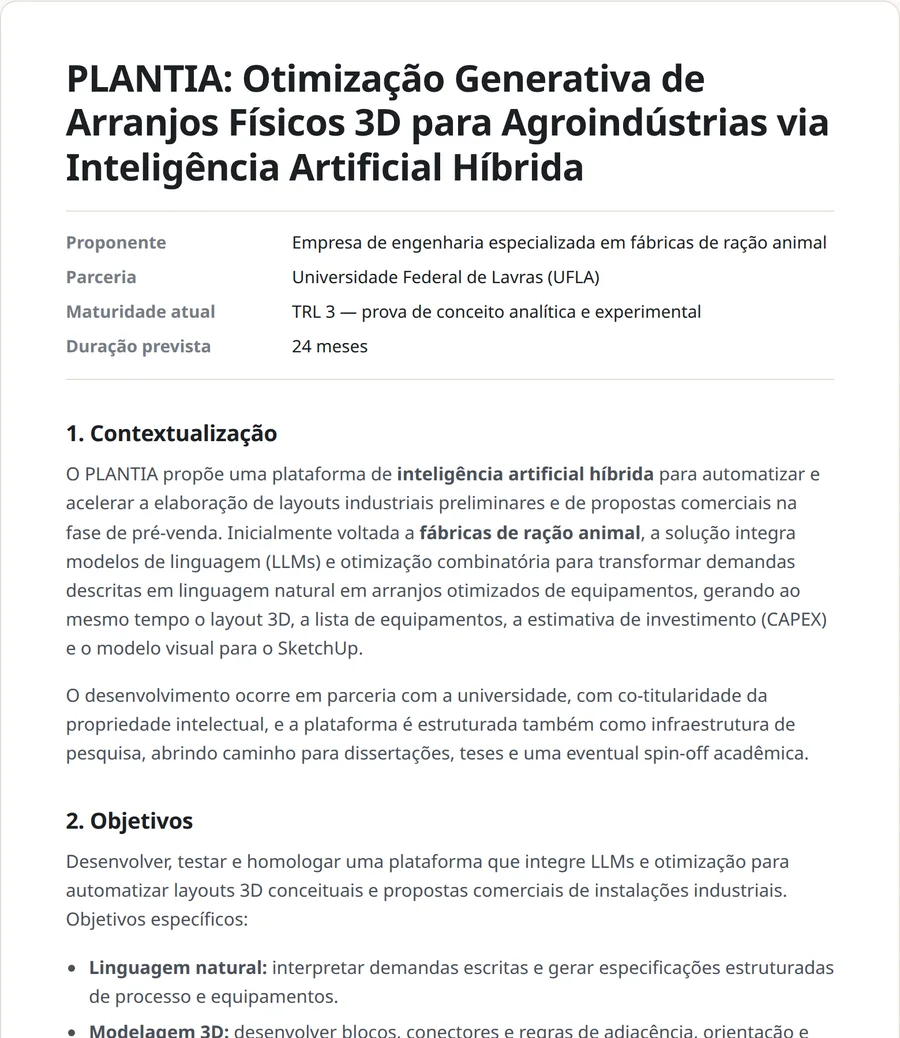
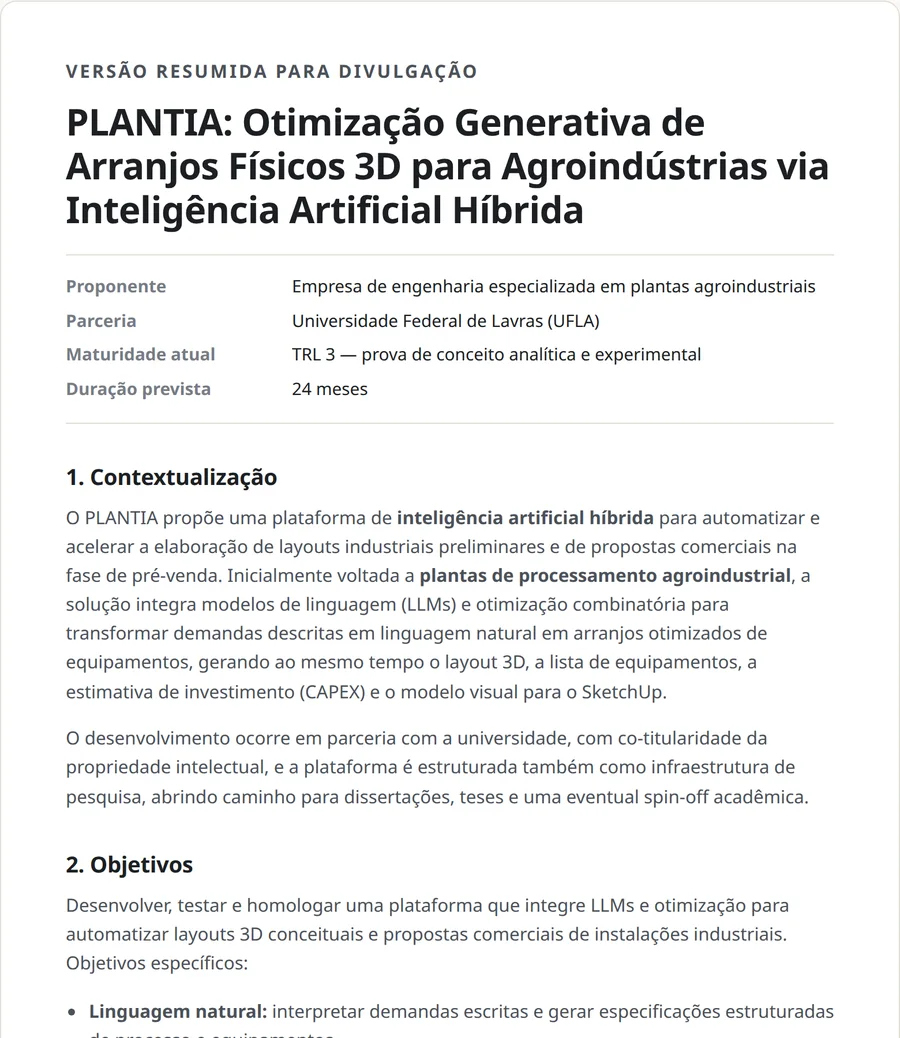
Exemplo de entrega como versão resumida e PLANTIA sem citar ração
- Deixa explícito em todos os pontos que o documento do PLANTIA é uma
  versão resumida (faixa da página inicial, links, título e topo do
  documento).
- Troca "fábricas de ração" por "plantas agroindustriais" no caso do
  portfólio e no documento, mantendo o sentido; miniatura refeita.

Changed region(s): [[0.0622, 0.0617, 0.9333, 1.0]]

diff --git a/exemplo-edital.html b/exemplo-edital.html
@@ -3,7 +3,7 @@
 <head>
 <meta charset="utf-8">
 <meta name="viewport" content="width=device-width, initial-scale=1">
-<title>Exemplo de documento técnico para edital — Raphael de Bettio</title>
+<title>Exemplo de documento técnico para edital (versão resumida) — Raphael de Bettio</title>
 <meta name="description" content="Versão resumida de uma proposta real de P&D para edital de fomento, elaborada a partir de uma prova de conceito.">
 <meta property="og:title" content="Exemplo de documento técnico para edital — Raphael de Bettio">
 <meta property="og:description" content="Sua ideia funcionando em semanas, para validar, testar ou captar recursos.">
@@ -52,15 +52,16 @@
       <div class="doc-actions"><a class="btn btn-ghost btn-sm" href="portfolio.html#plantia">← Voltar para o portfólio</a><button class="btn btn-wa btn-sm" type="button" onclick="window.print()">Salvar em PDF</button></div>
     </div>
     <article class="doc">
+<p class="eyebrow">Versão resumida para divulgação</p>
 <h1>PLANTIA: Otimização Generativa de Arranjos Físicos 3D para Agroindústrias via Inteligência Artificial Híbrida</h1>
 <dl class="meta">
-<dt>Proponente</dt><dd>Empresa de engenharia especializada em fábricas de ração animal</dd>
+<dt>Proponente</dt><dd>Empresa de engenharia especializada em plantas agroindustriais</dd>
 <dt>Parceria</dt><dd>Universidade Federal de Lavras (UFLA)</dd>
 <dt>Maturidade atual</dt><dd>TRL 3 — prova de conceito analítica e experimental</dd>
 <dt>Duração prevista</dt><dd>24 meses</dd>
 </dl>
 <h2>1. Contextualização</h2>
-<p>O PLANTIA propõe uma plataforma de <strong>inteligência artificial híbrida</strong> para automatizar e acelerar a elaboração de layouts industriais preliminares e de propostas comerciais na fase de pré-venda. Inicialmente voltada a <strong>fábricas de ração animal</strong>, a solução integra modelos de linguagem (LLMs) e otimização combinatória para transformar demandas descritas em linguagem natural em arranjos otimizados de equipamentos, gerando ao mesmo tempo o layout 3D, a lista de equipamentos, a estimativa de investimento (CAPEX) e o modelo visual para o SketchUp.</p>
+<p>O PLANTIA propõe uma plataforma de <strong>inteligência artificial híbrida</strong> para automatizar e acelerar a elaboração de layouts industriais preliminares e de propostas comerciais na fase de pré-venda. Inicialmente voltada a <strong>plantas de processamento agroindustrial</strong>, a solução integra modelos de linguagem (LLMs) e otimização combinatória para transformar demandas descritas em linguagem natural em arranjos otimizados de equipamentos, gerando ao mesmo tempo o layout 3D, a lista de equipamentos, a estimativa de investimento (CAPEX) e o modelo visual para o SketchUp.</p>
 <p>O desenvolvimento ocorre em parceria com a universidade, com co-titularidade da propriedade intelectual, e a plataforma é estruturada também como infraestrutura de pesquisa, abrindo caminho para dissertações, teses e uma eventual spin-off acadêmica.</p>
 <h2>2. Objetivos</h2>
 <p>Desenvolver, testar e homologar uma plataforma que integre LLMs e otimização para automatizar layouts 3D conceituais e propostas comerciais de instalações industriais. Objetivos específicos:</p>
@@ -73,7 +74,7 @@
 <li><strong>Humano no controle:</strong> permitir ajustes, escolha entre alternativas e retorno a estados anteriores do projeto.</li>
 </ul>
 <h2>3. Relevância e aderência ao edital</h2>
-<p>O projeto ataca um gargalo da elaboração de propostas e orçamentos para fábricas de ração, hoje manual, lento e sujeito a retrabalho, reduzindo tempo e esforço na pré-venda e contribuindo para a eficiência da cadeia do agronegócio. A arquitetura modular permite aplicação futura em outros setores industriais.</p>
+<p>O projeto ataca um gargalo da elaboração de propostas e orçamentos para plantas agroindustriais, hoje manual, lento e sujeito a retrabalho, reduzindo tempo e esforço na pré-venda e contribuindo para a eficiência da cadeia do agronegócio. A arquitetura modular permite aplicação futura em outros setores industriais.</p>
 <p>A arquitetura de IA híbrida — um módulo semântico baseado em LLMs e um módulo de decisão por otimização combinatória — está alinhada à definição de inteligência artificial do Plano Brasileiro de Inteligência Artificial (PBIA) e ao seu eixo de IA para inovação empresarial, além de contribuir para reduzir a dependência de ferramentas estrangeiras de CAD e simulação, de licenças caras e pouco voltadas à produção de orçamentos.</p>
 <h2>4. Metodologia</h2>
 <p>O desenvolvimento segue um ciclo em espiral. Um <strong>LLM local</strong> interpreta a descrição do processo e a converte numa especificação estruturada em JSON, sem executar cálculos físicos. A especificação alimenta um <strong>modelo tridimensional discreto</strong> do galpão, em que equipamentos são blocos com dimensões, posições e conectores, sujeitos a regras de compatibilidade e fluxo. Um <strong>solver de otimização</strong> define o arranjo respeitando espaço, não sobreposição, limites do galpão e conectividade, buscando minimizar área ocupada e interconexões. O layout é convertido automaticamente em <strong>scripts Ruby para o SketchUp</strong>, e modelos paramétricos estimam o CAPEX de fabricação e montagem. Todo o processo é coordenado por uma interface em que o engenheiro combina comandos em linguagem natural com controles gráficos, com histórico de decisões que permite revisar e experimentar sem perder configurações anteriores.</p>

diff --git a/en/exemplo-edital.html b/en/exemplo-edital.html
@@ -3,7 +3,7 @@
 <head>
 <meta charset="utf-8">
 <meta name="viewport" content="width=device-width, initial-scale=1">
-<title>Example funding document — Raphael de Bettio</title>
+<title>Example funding document (condensed version) — Raphael de Bettio</title>
 <meta name="description" content="Condensed version of a real R&D proposal for a funding call, built on a proof of concept.">
 <meta property="og:title" content="Example funding document — Raphael de Bettio">
 <meta property="og:description" content="Your idea working in weeks — to validate, test or raise funding.">
@@ -52,15 +52,16 @@
       <div class="doc-actions"><a class="btn btn-ghost btn-sm" href="portfolio.html#plantia">← Back to the portfolio</a><button class="btn btn-wa btn-sm" type="button" onclick="window.print()">Save as PDF</button></div>
     </div>
     <article class="doc">
+<p class="eyebrow">Condensed version for publication</p>
 <h1>PLANTIA: Generative Optimization of 3D Physical Layouts for Agribusiness via Hybrid Artificial Intelligence</h1>
 <dl class="meta">
-<dt>Applicant</dt><dd>Engineering company specialized in animal-feed factories</dd>
+<dt>Applicant</dt><dd>Engineering company specialized in agro-industrial plants</dd>
 <dt>Partner</dt><dd>Federal University of Lavras (UFLA)</dd>
 <dt>Current maturity</dt><dd>TRL 3 — analytical and experimental proof of concept</dd>
 <dt>Planned duration</dt><dd>24 months</dd>
 </dl>
 <h2>1. Context</h2>
-<p>PLANTIA proposes a <strong>hybrid artificial intelligence</strong> platform to automate and speed up preliminary industrial layouts and sales proposals in the pre-sales phase. Initially aimed at <strong>animal-feed factories</strong>, it combines large language models (LLMs) and combinatorial optimization to turn demands written in natural language into optimized equipment arrangements, producing at once the 3D layout, the equipment list, the investment estimate (CAPEX) and the visual model for SketchUp.</p>
+<p>PLANTIA proposes a <strong>hybrid artificial intelligence</strong> platform to automate and speed up preliminary industrial layouts and sales proposals in the pre-sales phase. Initially aimed at <strong>agro-industrial processing plants</strong>, it combines large language models (LLMs) and combinatorial optimization to turn demands written in natural language into optimized equipment arrangements, producing at once the 3D layout, the equipment list, the investment estimate (CAPEX) and the visual model for SketchUp.</p>
 <p>Development takes place in partnership with the university, with shared intellectual property, and the platform is also structured as research infrastructure, opening the way to theses and a possible academic spin-off.</p>
 <h2>2. Objectives</h2>
 <p>To develop, test and certify a platform that integrates LLMs and optimization to automate conceptual 3D layouts and sales proposals for industrial plants. Specific objectives:</p>
@@ -73,7 +74,7 @@
 <li><strong>Human in control:</strong> allow adjustments, choosing between alternatives and returning to previous project states.</li>
 </ul>
 <h2>3. Relevance and fit with the call</h2>
-<p>The project tackles a bottleneck in preparing proposals and budgets for feed factories — today manual, slow and prone to rework — cutting pre-sales time and effort and improving efficiency in the agribusiness chain. Its modular architecture allows future use in other industrial sectors.</p>
+<p>The project tackles a bottleneck in preparing proposals and budgets for agro-industrial plants — today manual, slow and prone to rework — cutting pre-sales time and effort and improving efficiency in the agribusiness chain. Its modular architecture allows future use in other industrial sectors.</p>
 <p>The hybrid AI architecture — a semantic module based on LLMs and a decision module based on combinatorial optimization — matches the definition of AI in the Brazilian Artificial Intelligence Plan (PBIA) and its pillar on AI for business innovation, while reducing dependence on foreign CAD and simulation tools with costly licenses and little focus on budgeting.</p>
 <h2>4. Methodology</h2>
 <p>Development follows a spiral cycle. A <strong>local LLM</strong> interprets the process description and turns it into a structured JSON specification, without doing physical calculations. The specification feeds a <strong>discrete three-dimensional model</strong> of the building, in which machines are blocks with dimensions, positions and connectors, subject to compatibility and flow rules. An <strong>optimization solver</strong> defines the arrangement respecting space, non-overlap, building limits and connectivity, while minimizing occupied area and interconnections. The layout is automatically converted into <strong>Ruby scripts for SketchUp</strong>, and parametric models estimate manufacturing and assembly CAPEX. The whole process is coordinated by an interface where the engineer combines natural-language commands with graphical controls, with a decision history that allows reviewing and experimenting without losing earlier configurations.</p>

diff --git a/portfolio.html b/portfolio.html
@@ -53,7 +53,7 @@
     <div class="eyebrow">Portfólio</div>
     <h1>Sistemas que já projetei e construí</h1>
     <p class="lead">Os sistemas a seguir foram desenvolvidos no âmbito da universidade: projetos institucionais em parceria com empresas privadas e órgãos públicos, e provas de conceito e protótipos criados para apoiar projetos de pesquisa, extensão e ensino. Como muitos deles não têm acesso público, mostro aqui como funcionam — com telas ou ilustrações e o diagrama de cada um.</p>
-    <p class="note" style="margin-top:14px"><a href="exemplo-edital.html">Veja também um exemplo de entrega: o documento técnico para edital feito a partir da POC do PLANTIA →</a></p>
+    <p class="note" style="margin-top:14px"><a href="exemplo-edital.html">Veja também um exemplo de entrega: a versão resumida do documento técnico para edital feito a partir da POC do PLANTIA →</a></p>
   </div>
 </section>
 
@@ -63,7 +63,7 @@
       <a class="card" href="#plantia">
         <span class="num">01</span>
         <h3>PLANTIA</h3>
-        <p>Do pedido em texto ao layout 3D de uma fábrica de ração, pronto para o SketchUp, com inteligência artificial.</p>
+        <p>Do pedido em texto ao layout 3D de uma planta agroindustrial, pronto para o SketchUp, com inteligência artificial.</p>
         <span class="go">Ver o caso →</span>
       </a>
       <a class="card" href="#cognifox">
@@ -119,13 +119,13 @@
       <div>
         <div class="eyebrow">PLANTIA · Prova de conceito</div>
         <h2>Otimização Generativa de Arranjos Físicos 3D para Agroindústrias via Inteligência Artificial Híbrida</h2>
-        <p>Prova de conceito para quem projeta fábricas de ração. Hoje, montar o layout preliminar de uma proposta comercial é trabalho manual, lento e cheio de retrabalho. Aqui, o cliente descreve a demanda em texto — por exemplo, “preciso processar 250 kg de farinha por hora” —, a inteligência artificial transforma o pedido numa especificação, o sistema calcula quantos equipamentos são necessários e encontra sozinho uma posição para cada um, já conectados entre si, gerando o modelo pronto para o SketchUp. A POC mostrou que o mecanismo funciona de ponta a ponta e virou a base técnica de uma proposta de pesquisa e desenvolvimento em parceria com a UFLA. Concebi e desenvolvi a prova de conceito, chamada Pré-SketchUp.</p>
+        <p>Prova de conceito para quem projeta plantas industriais do agronegócio. Hoje, montar o layout preliminar de uma proposta comercial é trabalho manual, lento e cheio de retrabalho. Aqui, o cliente descreve a demanda em texto — por exemplo, “preciso processar 250 kg de farinha por hora” —, a inteligência artificial transforma o pedido numa especificação, o sistema calcula quantos equipamentos são necessários e encontra sozinho uma posição para cada um, já conectados entre si, gerando o modelo pronto para o SketchUp. A POC mostrou que o mecanismo funciona de ponta a ponta e virou a base técnica de uma proposta de pesquisa e desenvolvimento em parceria com a UFLA. Concebi e desenvolvi a prova de conceito, chamada Pré-SketchUp.</p>
         <div class="tags"><span>Prova de conceito</span><span>Agroindústria</span><span>Inteligência artificial</span><span>Otimização</span><span>Modelagem 3D</span><span>SketchUp</span></div>
-        <p class="startup-line"><strong>Para a sua startup:</strong> mostra o caminho completo que uma startup percorre: da ideia a uma prova de conceito funcionando e, dela, a um documento técnico pronto para buscar financiamento.<br><a href="exemplo-edital.html">Veja o exemplo de documento para edital →</a></p>
+        <p class="startup-line"><strong>Para a sua startup:</strong> mostra o caminho completo que uma startup percorre: da ideia a uma prova de conceito funcionando e, dela, a um documento técnico pronto para buscar financiamento.<br><a href="exemplo-edital.html">Veja a versão resumida do documento para edital →</a></p>
       </div>
       <div class="case-usage">
         <h4>Situação</h4>
-        <ul><li><strong>Prova de conceito concluída</strong><span>Mecanismo validado de ponta a ponta, em cenários variados</span></li><li><strong>Próxima etapa</strong><span>Projeto de P&D estruturado em parceria com a UFLA, com roteiro para chegar a produto e pronto para editais de fomento</span></li><li><strong>Domínio</strong><span>Fábricas de ração animal</span></li></ul>
+        <ul><li><strong>Prova de conceito concluída</strong><span>Mecanismo validado de ponta a ponta, em cenários variados</span></li><li><strong>Próxima etapa</strong><span>Projeto de P&D estruturado em parceria com a UFLA, com roteiro para chegar a produto e pronto para editais de fomento</span></li><li><strong>Domínio</strong><span>Plantas de processamento agroindustrial</span></li></ul>
       </div>
     </div>
     <div class="case-body">

diff --git a/en/portfolio.html b/en/portfolio.html
@@ -53,7 +53,7 @@
     <div class="eyebrow">Portfolio</div>
     <h1>Systems I have designed and built</h1>
     <p class="lead">The systems below were developed within the university: institutional projects in partnership with private companies and government agencies, and proofs of concept and prototypes built to support research, outreach and teaching projects. Since many of them have no public access, here I show how they work — with screens or illustrations and a diagram of each one.</p>
-    <p class="note" style="margin-top:14px"><a href="exemplo-edital.html">See also a deliverable example: the technical funding document built from the PLANTIA POC →</a></p>
+    <p class="note" style="margin-top:14px"><a href="exemplo-edital.html">See also a deliverable example: a condensed version of the technical funding document built from the PLANTIA POC →</a></p>
   </div>
 </section>
 
@@ -63,7 +63,7 @@
       <a class="card" href="#plantia">
         <span class="num">01</span>
         <h3>PLANTIA</h3>
-        <p>From a plain-text request to the 3D layout of an animal-feed factory, ready for SketchUp, with artificial intelligence.</p>
+        <p>From a plain-text request to the 3D layout of an agro-industrial plant, ready for SketchUp, with artificial intelligence.</p>
         <span class="go">See the case →</span>
       </a>
       <a class="card" href="#cognifox">
@@ -119,13 +119,13 @@
       <div>
         <div class="eyebrow">PLANTIA · Proof of concept</div>
         <h2>Generative Optimization of 3D Physical Layouts for Agribusiness via Hybrid Artificial Intelligence</h2>
-        <p>A proof of concept for companies that design animal-feed factories. Today, putting together the preliminary layout for a sales proposal is manual, slow work full of rework. Here, the client describes the demand in plain text — for example, “I need to process 250 kg of flour per hour” —, artificial intelligence turns the request into a specification, the system works out how many machines are needed and finds a position for each one on its own, already connected to each other, producing a model ready for SketchUp. The POC showed the mechanism works end to end and became the technical basis of an R&D proposal in partnership with UFLA. I conceived and developed the proof of concept, called Pre-SketchUp.</p>
+        <p>A proof of concept for companies that design agribusiness processing plants. Today, putting together the preliminary layout for a sales proposal is manual, slow work full of rework. Here, the client describes the demand in plain text — for example, “I need to process 250 kg of flour per hour” —, artificial intelligence turns the request into a specification, the system works out how many machines are needed and finds a position for each one on its own, already connected to each other, producing a model ready for SketchUp. The POC showed the mechanism works end to end and became the technical basis of an R&D proposal in partnership with UFLA. I conceived and developed the proof of concept, called Pre-SketchUp.</p>
         <div class="tags"><span>Proof of concept</span><span>Agribusiness</span><span>Artificial intelligence</span><span>Optimization</span><span>3D modeling</span><span>SketchUp</span></div>
-        <p class="startup-line"><strong>For your startup:</strong> shows the full path a startup goes through: from an idea to a working proof of concept and, from there, to a technical document ready to seek funding.<br><a href="exemplo-edital.html">See the example funding document →</a></p>
+        <p class="startup-line"><strong>For your startup:</strong> shows the full path a startup goes through: from an idea to a working proof of concept and, from there, to a technical document ready to seek funding.<br><a href="exemplo-edital.html">See the condensed version of the funding document →</a></p>
       </div>
       <div class="case-usage">
         <h4>Status</h4>
-        <ul><li><strong>Proof of concept completed</strong><span>Mechanism validated end to end, in varied scenarios</span></li><li><strong>Next stage</strong><span>R&D project structured in partnership with UFLA, with a roadmap to product and ready for public funding calls</span></li><li><strong>Domain</strong><span>Animal-feed factories</span></li></ul>
+        <ul><li><strong>Proof of concept completed</strong><span>Mechanism validated end to end, in varied scenarios</span></li><li><strong>Next stage</strong><span>R&D project structured in partnership with UFLA, with a roadmap to product and ready for public funding calls</span></li><li><strong>Domain</strong><span>Agro-industrial processing plants</span></li></ul>
       </div>
     </div>
     <div class="case-body">

diff --git a/index.html b/index.html
@@ -203,7 +203,7 @@
           <li>Caminho técnico até o produto</li>
           <li>Apoio na parte técnica de editais</li>
         </ul>
-        <a class="doc-link" href="exemplo-edital.html">Veja um exemplo de documento para edital →</a>
+        <a class="doc-link" href="exemplo-edital.html">Veja um exemplo de documento para edital (versão resumida) →</a>
         <div class="price">Valor sob consulta</div>
         <a class="btn btn-ghost js-wa" data-pkg="Protótipo para captação" href="#contato">Quero um protótipo</a>
       </div>
@@ -216,12 +216,12 @@
 <section class="example-band" id="exemplo">
   <div class="wrap">
     <div>
-      <div class="eyebrow">Exemplo de entrega</div>
+      <div class="eyebrow">Exemplo de entrega · versão resumida</div>
       <h2>Veja como fica o resultado de um projeto</h2>
-      <p class="section-intro">Um exemplo real: a prova de conceito do PLANTIA virou um documento técnico pronto para disputar um edital de fomento — com o problema, a solução, as evidências do que já funciona, a comparação com o mercado e o cronograma. É o tipo de material que você recebe no pacote de protótipo para captação.</p>
+      <p class="section-intro">Um exemplo real, aqui em versão resumida: a prova de conceito do PLANTIA virou um documento técnico pronto para disputar um edital de fomento — com o problema, a solução, as evidências do que já funciona, a comparação com o mercado e o cronograma. É o tipo de material que você recebe no pacote de protótipo para captação.</p>
       <ul><li>Problema e objetivos explicados para quem vai avaliar</li><li>Evidências da prova de conceito, com imagens do sistema funcionando</li><li>O que ainda falta construir, sem esconder os limites</li><li>Mercado, inovação e cronograma</li></ul>
       <div class="actions">
-        <a class="btn btn-accent" href="exemplo-edital.html">Ver o documento de exemplo</a>
+        <a class="btn btn-accent" href="exemplo-edital.html">Ver a versão resumida do documento</a>
         <a class="btn btn-ghost" href="portfolio.html#plantia">Ver o caso PLANTIA</a>
       </div>
     </div>
@@ -336,7 +336,7 @@
     </details>
     <details>
       <summary>Você ajuda com editais de fomento?</summary>
-      <p>Sim. No pacote de protótipo para captação, preparo a parte técnica da proposta: contextualização, viabilidade com as evidências da POC, maturidade tecnológica e cronograma. <a href="exemplo-edital.html">Veja um exemplo de documento técnico para edital</a>.</p>
+      <p>Sim. No pacote de protótipo para captação, preparo a parte técnica da proposta: contextualização, viabilidade com as evidências da POC, maturidade tecnológica e cronograma. <a href="exemplo-edital.html">Veja um exemplo de documento técnico para edital, em versão resumida</a>.</p>
     </details>
     <details>
       <summary>Quem fica com o código e a propriedade intelectual?</summary>

diff --git a/en/index.html b/en/index.html
@@ -203,7 +203,7 @@
           <li>Technical roadmap to the product</li>
           <li>Support with the technical part of grant applications</li>
         </ul>
-        <a class="doc-link" href="exemplo-edital.html">See an example funding document →</a>
+        <a class="doc-link" href="exemplo-edital.html">See an example funding document (condensed) →</a>
         <div class="price">Price on request</div>
         <a class="btn btn-ghost js-wa" data-pkg="Fundraising prototype" href="#contact">I want a prototype</a>
       </div>
@@ -216,12 +216,12 @@
 <section class="example-band" id="example">
   <div class="wrap">
     <div>
-      <div class="eyebrow">Deliverable example</div>
+      <div class="eyebrow">Deliverable example · condensed version</div>
       <h2>See what a project delivers</h2>
-      <p class="section-intro">A real example: the PLANTIA proof of concept became a technical document ready to compete in a funding call — with the problem, the solution, evidence of what already works, the market comparison and the timeline. This is the kind of material you get in the fundraising prototype package.</p>
+      <p class="section-intro">A real example, shown here in a condensed version: the PLANTIA proof of concept became a technical document ready to compete in a funding call — with the problem, the solution, evidence of what already works, the market comparison and the timeline. This is the kind of material you get in the fundraising prototype package.</p>
       <ul><li>Problem and goals explained for the reviewers</li><li>Proof-of-concept evidence, with images of the working system</li><li>What is still to be built, without hiding the limits</li><li>Market, innovation and timeline</li></ul>
       <div class="actions">
-        <a class="btn btn-accent" href="exemplo-edital.html">See the example document</a>
+        <a class="btn btn-accent" href="exemplo-edital.html">See the condensed document</a>
         <a class="btn btn-ghost" href="portfolio.html#plantia">See the PLANTIA case</a>
       </div>
     </div>
@@ -336,7 +336,7 @@
     </details>
     <details>
       <summary>Do you help with funding applications?</summary>
-      <p>Yes. In the fundraising prototype package, I prepare the technical part of the proposal: context, feasibility backed by the POC evidence, technology readiness and timeline. <a href="exemplo-edital.html">See an example of a technical document for a funding call</a>.</p>
+      <p>Yes. In the fundraising prototype package, I prepare the technical part of the proposal: context, feasibility backed by the POC evidence, technology readiness and timeline. <a href="exemplo-edital.html">See a condensed example of a technical document for a funding call</a>.</p>
     </details>
     <details>
       <summary>Who owns the code and the intellectual property?</summary>
